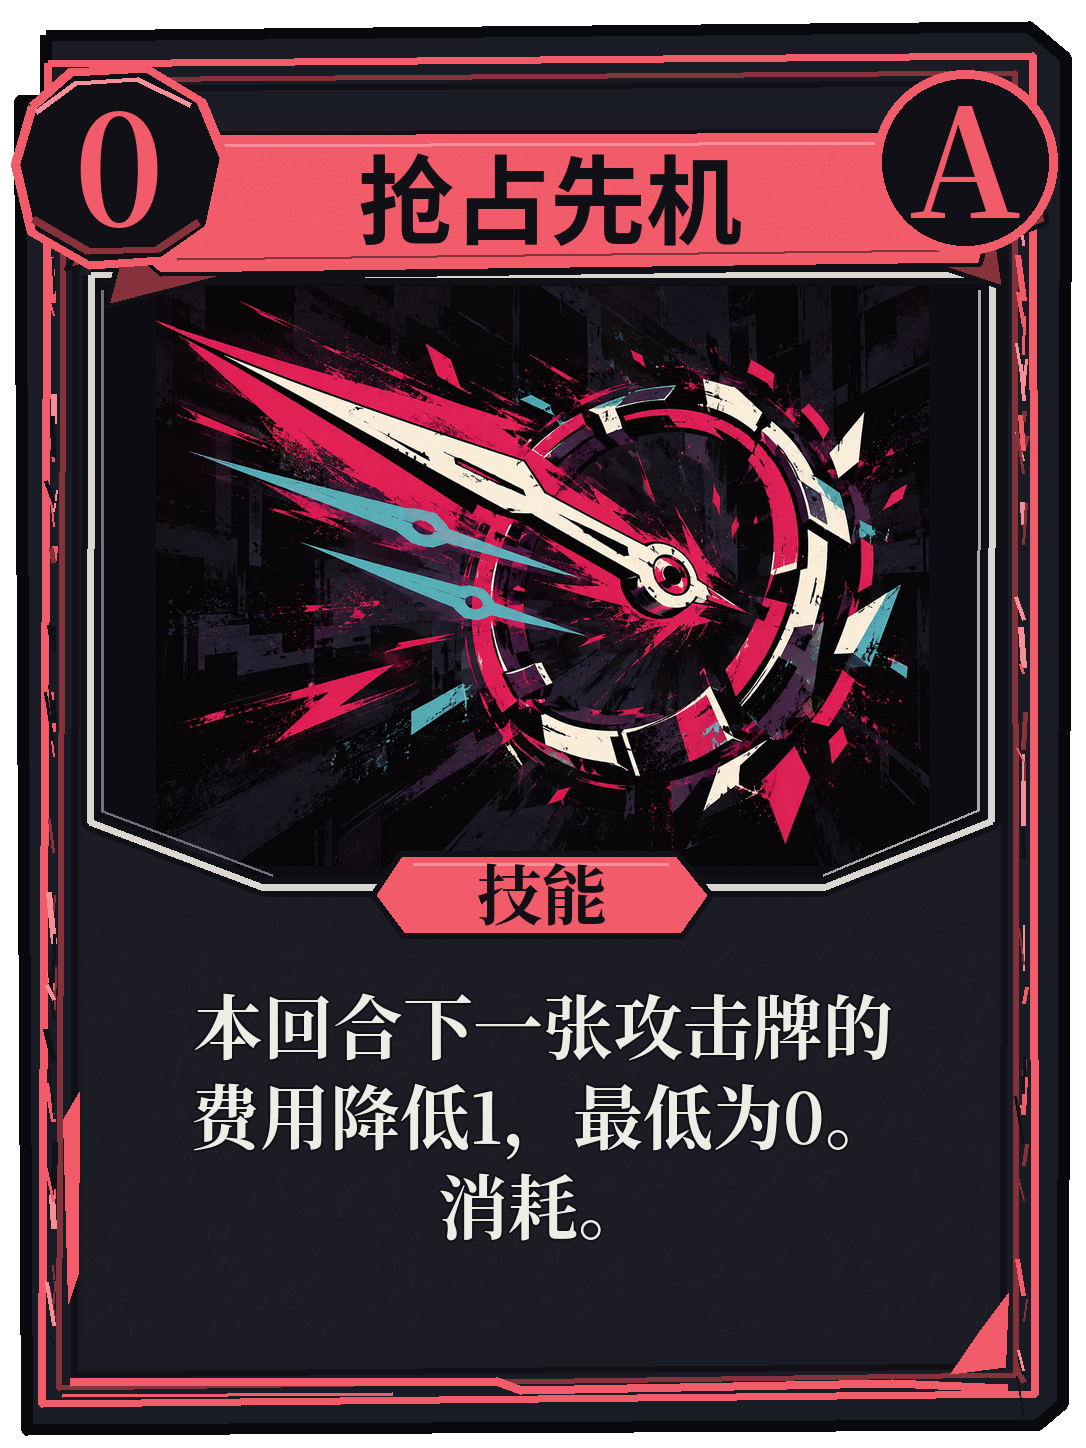
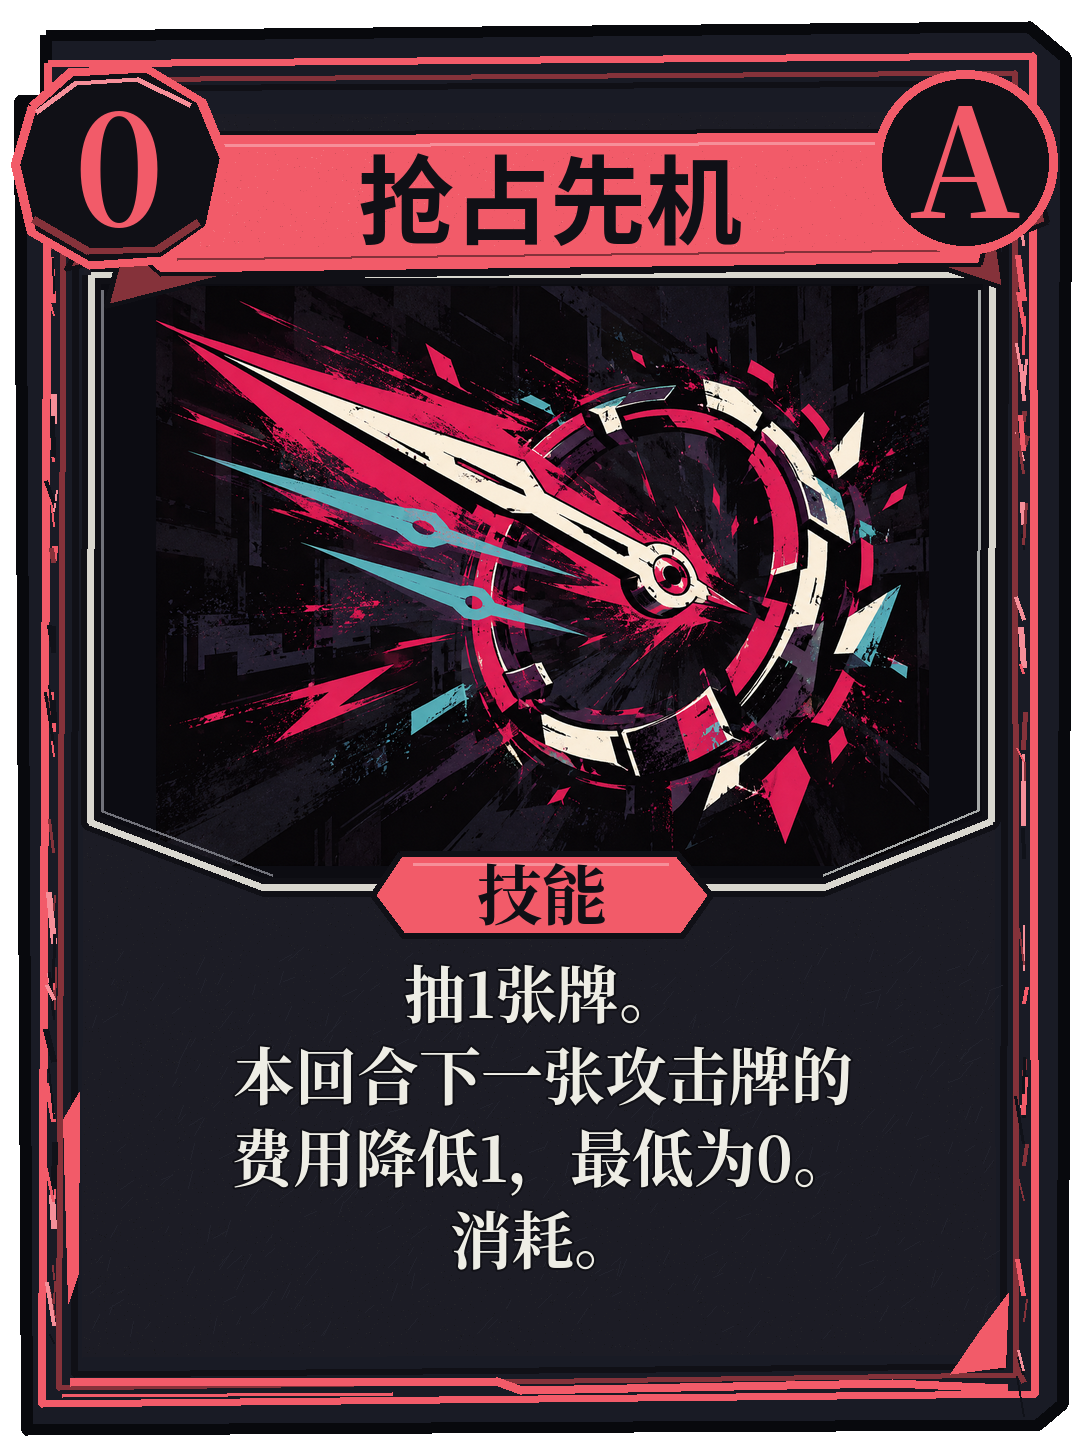
卡牌数值修改

Changed region(s): [[0.1823, 0.6526, 0.8204, 0.9012]]

diff --git a/tools/card_art/update_noren_rules.py b/tools/card_art/update_noren_rules.py
@@ -66,7 +66,13 @@ PREFERRED_LINES = {
         "造成8点伤害。",
         "远程技：若打出本牌前",
         "恰好拥有1颗弹药，",
-        "本牌基础伤害增加4。"
+        "本牌基础伤害增加6。"
+    ],
+    "noren_22": [
+        "抽1张牌。",
+        "本回合下一张攻击牌的",
+        "费用降低1，最低为0。",
+        "消耗。"
     ],
     "noren_25": [
         "造成14点伤害。",

diff --git a/docs/卡牌与效果实现维护指南.md b/docs/卡牌与效果实现维护指南.md
@@ -355,7 +355,7 @@ Buffs.clear(model, "weak", enemy_index)
 | `noren_15` | 膛压蓄积 | B／0 | `skill`／`self` | 爆发直伤流 | `next_damage(amount=5)` | 消耗区 |
 | `noren_18` | 重弹装填 | B／1 | `skill`／`self` | 爆发直伤流 | `ammo(amount=2)` → `next_damage(amount=4)` | 弃牌区 |
 | `noren_19` | 压制射击 | B／1 | `attack`／`enemy` | 爆发直伤流 | `damage(amount=8)` → `weak(amount=2)` | 弃牌区 |
-| `noren_21` | 末弹决断 | B／1 | `attack`／`enemy` | 爆发直伤流 | `damage(amount=8, lastAmmoBonus=4)` | 弃牌区 |
+| `noren_21` | 末弹决断 | B／1 | `attack`／`enemy` | 爆发直伤流 | `damage(amount=8, lastAmmoBonus=6)` | 弃牌区 |
 | `noren_25` | 处决射击 | B／2 | `attack`／`enemy` | 爆发直伤流 | `damage(amount=14, executeBonus=8)` | 弃牌区 |
 | `noren_27` | 剖切 | B／1 | `attack`／`enemy` | 裂伤流 | `damage(amount=6)` → `bleed(amount=2)` | 弃牌区 |
 | `noren_28` | 双刃连击 | B／1 | `attack`／`enemy` | 裂伤流 | `damage(amount=3, hits=2)` → `bleed(amount=2, when="melee")` | 弃牌区 |
@@ -372,7 +372,7 @@ Buffs.clear(model, "weak", enemy_index)
 | `noren_16` | 后跳斩 | A／1 | `attack`／`enemy` | 爆发直伤流 | `damage(amount=9)` → `draw(amount=2, when="melee")` | 弃牌区 |
 | `noren_17` | 枪口重击 | A／2 | `attack`／`enemy` | 爆发直伤流 | `damage(amount=16)` → `ammo(amount=2, when="melee")` | 弃牌区 |
 | `noren_20` | 火力倾泻 | A／2 | `attack`／`enemy` | 爆发直伤流 | `damage(amount=9, allAmmoHits=true)`；卡级 `consumeAllAmmo=true` | 弃牌区 |
-| `noren_22` | 抢占先机 | A／0 | `skill`／`self` | 爆发直伤流 | `next_discount(amount=1)` | 消耗区 |
+| `noren_22` | 抢占先机 | A／0 | `skill`／`self` | 爆发直伤流 | `draw(amount=1)` → `next_discount(amount=1)` | 消耗区 |
 | `noren_24` | 弱点锁定 | A／1 | `skill`／`self` | 爆发直伤流 | `draw(amount=2)` → `buff(id="next_hit_damage", amount=6)` | 弃牌区 |
 | `noren_29` | 撕裂斩 | A／2 | `attack`／`enemy` | 裂伤流 | `damage(amount=14)` → `bleed(amount=4)` | 弃牌区 |
 | `noren_30` | 加深伤口 | A／1 | `skill`／`enemy` | 裂伤流 | `bleed(amount=3, woundedMeleeAmount=6)` | 弃牌区 |
@@ -469,7 +469,7 @@ Buffs.clear(model, "weak", enemy_index)
 
 2026-10-17：`end_noren_turn()` 新增有序 `turnEvents`，包含 `status_tick`（污染伤害与减层）、`status_apply`（主动污染）、`attack`（含明确敌人数组index）。`attacks`保留兼容查询。每段攻击的 `pollutionAfter` 及状态事件的 `stacksAfter / hpAfter / blockAfter` 驱动显示快照，按实际先后展示；不能用模型整轮最终污染提前刷新中间命中。污染伤害只调用普通伤害入口，不调用攻击追加或弹反钩子；玩家或敌人污染致死也播放受击／退场。
 
-当前两只鱼定义 `deathPollution=3`，双杀合计6层：统一敌方伤害入口在存活转为死亡时施加污染，再由调用者判定胜负；无需保存额外触发标记，已死亡对象不会重复触发。返回命中的 `deathPollution` 与 `playerPollutionAfter` 描述本次死亡效果和当时玩家污染层数；裂伤并入攻击结果时保留这两项，弹反和敌人污染事件沿用。界面在对应致死命中／状态事件时展示，不提前读取最终模型层数。旧快照缺少该配置时仍默认为0；若显式保存 `deathPollution=5`则继续每只5层，不以新目录的3层覆盖。攻击接触污染仍为每实际扣血段2层，主动污染意图仍为3层。
+当前两只鱼定义 `deathPollution=3`，双杀合计6层：统一敌方伤害入口在存活转为死亡时施加污染，再由调用者判定胜负；无需保存额外触发标记，已死亡对象不会重复触发。返回命中的 `deathPollution` 与 `playerPollutionAfter` 描述本次死亡效果和当时玩家污染层数；裂伤并入攻击结果时保留这两项，弹反和敌人污染事件沿用。界面在对应致死命中／状态事件时展示，不提前读取最终模型层数。旧快照缺少该配置时仍默认为0；若显式保存 `deathPollution=5`则继续每只5层，不以新目录的3层覆盖。2026-11-17起，攻击每段实际扣血追加1层污染，主动污染意图施加2层。以上数值由当前敌人定义提供，更新前的战斗使用冻结配置。
 
 ### 当前效果数值预览（2026-10-19同步）
 

diff --git a/docs/游戏规则.md b/docs/游戏规则.md
@@ -1,5 +1,13 @@
 # 午夜委托 游戏规则
 
+## 末弹决断、抢占先机与变异鱼（2026-11-17）
+
+- **末弹决断（B／1费）** 造成8点基础伤害。在远程形态下，如果打出本牌前恰好只有1颗弹药，基础伤害增加6点。在没有其他修正时，末弹一击造成21点伤害，即（8＋6）×1.5。若出牌前有2颗弹药，则造成12点伤害。
+- **抢占先机（A／0费）** 先抽1张牌，本回合下一张攻击牌费用降低1，最低为0。抢占先机随后进入消耗区，刚抽到的攻击牌也可以使用这次减费。
+- **变异鱼** 的攻击每实际扣血一段追加1层污染。主动污染意图直接施加2层，每只鱼死亡时施加3层。两只鱼的错位行动顺序见[变异的鱼与污染](#变异的鱼与污染2026-10-17)。
+
+新开的战斗与演练使用本次定义，更新前已开打的战斗按该场冻结的牌和敌人数据结算。
+
 ## 破势枪托、血迹追踪与应急供能（2026-11-16）
 
 - **破势枪托（B／1费）** 对一名敌人造成6点基础伤害。近战形态的基础伤害为9点，攻击后对该目标施加2层虚弱。远程形态按通常的伤害倍率结算。
@@ -437,13 +445,13 @@ E04／B04接入黑帮老大与两名黑帮小弟：老大30 HP，每名小弟15 
 | 第一只 | 攻击6 | 攻击2×2 | 施加2层污染 |
 | 第二只 | 施加2层污染 | 攻击6 | 攻击2×2 |
 
-每段鱼攻击在扣除格挡后造成大于0的实际伤害，便向受击者追加2层污染；全挡或0伤害不追加，多段分别计算。主动污染意图直接加层，不消耗格挡。
+每段鱼攻击实际扣血时追加1层污染。两段攻击若都扣血，共追加2层；若仅一段扣血，则只追加1层。全挡时追加0层。主动污染意图直接施加2层，不消耗格挡。
 
 每只鱼死亡时向角色施加3层污染，仅在存活转为死亡时触发一次；攻击、裂伤、弹反或污染致死都生效，同时击杀两只合计6层。施加层数不消耗格挡、不立即造成伤害，仍受999层上限限制；后续污染结算可被格挡。最后一只鱼死亡也先施加，再判定胜利。已进行的旧战斗若显式保存 `deathPollution=5`，仍保留每只5层；没有该字段的更早快照默认为0，新开战斗读取每只3层。
 
 污染为负面效果，双方角色均可持有，最多999层。持有者自身回合结束时先受到等于当前层数的伤害（先扣格挡），然后减少1层，降至0消失。它不会在对方回合结束时结算，也不会触发鱼的攻击追加污染或弹反。玩家污染在敌人行动前结算，若致死立即战败；敌人污染在其行动后结算。
 
-主菜单“敌人测试”使用同样的双鱼30 HP配置。已有战斗快照继续保留原敌人数值和数量，新配置需新开B11战斗。
+主菜单“战斗演练”的双变异鱼使用同一套 B11 阵容和机制，新手教程只使用第一只鱼。更新前已开始的战斗沿用快照中记录的攻击污染层数。
 
 ## 治疗与日期
 

diff --git a/docs/诺伦卡牌与控制台.md b/docs/诺伦卡牌与控制台.md
@@ -22,7 +22,7 @@
 
 基础牌01—04（直击、护身、贴近、拉开距离）的完整定义保持不变；20张非基础牌提高数值，40号剖解经验改为近战攻击逐段施加裂伤。费用、品级、攻击段数和初始卡组不变，其他卡维持原值。新开正式战斗／演练使用新定义；进行中的旧战斗保留冻结卡表和旧能力行为，不覆盖正式存档。
 
-下表列出现行45张牌，已纳入2026-11-16的修订。各日期段记录当时的改动。数值仍为试玩配置，未宣称完成实战平衡。
+下表列出现行45张牌，已纳入2026-11-17的修订。各日期段记录当时的改动。数值仍为试玩配置，未宣称完成实战平衡。
 
 剖解经验：本场战斗中，近战形态每段攻击命中后，对命中的存活敌人施加1层裂伤；多段逐段、群攻逐目标生效，完全格挡也触发。远程攻击、弹反及技能直接施加裂伤不触发，同名能力不叠加，不受每回合首次限制。每段按“攻击本体→剖解经验施加1裂伤→该段显式裂伤触发”执行，因此近战伤口追猎可立即触发本段新增裂伤。
 
@@ -48,8 +48,8 @@
 | 18 | 重弹装填 | B／1 | 技能 | 获得 2 颗弹药。下一张攻击牌的每段基础伤害增加 4。可叠加，跨回合保留。 |
 | 19 | 压制射击 | B／1 | 攻击 | 造成 8 点伤害，施加 2 层虚弱。 |
 | 20 | 火力倾泻 | A／2 | 攻击 | 造成 9 点伤害。远程技：消耗全部弹药，每消耗 1 颗弹药，额外攻击 1 次；总段数为 1 加打出前的弹药数。 |
-| 21 | 末弹决断 | B／1 | 攻击 | 造成 8 点伤害。远程技：若打出本牌前恰好拥有 1 颗弹药，本牌基础伤害增加 4。 |
-| 22 | 抢占先机 | A／0 | 技能 | 本回合下一张攻击牌的费用降低 1，最低为 0。消耗。 |
+| 21 | 末弹决断 | B／1 | 攻击 | 造成8点基础伤害。远程技：若打出本牌前恰好拥有1颗弹药，本牌基础伤害增加6。 |
+| 22 | 抢占先机 | A／0 | 技能 | 抽1张牌。本回合下一张攻击牌的费用降低1，最低为0。消耗。 |
 | 23 | 弱点瞄准 | S／1 | 能力 | 本场战斗中，远程形态的攻击本体伤害倍率由 1.5 倍变为 2 倍。 |
 | 24 | 弱点锁定 | A／1 | 技能 | 抽 2 张牌。下一张攻击牌的每段基础伤害增加 6。可叠加，跨回合保留。 |
 | 25 | 处决射击 | B／2 | 攻击 | 造成 14 点伤害。远程技：若目标在本牌使用前的生命值不高于其最大生命值的 50%，本牌基础伤害增加 8。 |

diff --git a/docs/修改记录.md b/docs/修改记录.md
@@ -1,6 +1,14 @@
 # 午夜委托项目修改记录
 
 
+## 2026-11-17 末弹决断、抢占先机与双鱼攻击污染
+
+末弹决断保留8点基础伤害，远程出牌前恰有1颗弹药时的基础加成由4提高到6。抢占先机先抽1张牌，再给本回合下一张攻击牌减1费，费用下限为0，使用后进入消耗区。两张 v3 卡面按现行文案重排规则区并重新绑定完整定义。
+
+黑潮泵站 `B11` 的 `fish` 和 `fish_second` 每段攻击实际扣血时追加的污染由2层调整为1层。主动污染意图为2层，每只鱼死亡施加3层。正式战斗、双鱼演练与使用第一只鱼的新手教程均读取对应敌人定义。旧战斗恢复时使用冻结敌人和卡表，保留该场原值。[游戏规则](游戏规则.md#末弹决断抢占先机与变异鱼2026-11-17)
+
+已同步至本地 game-demo。使用目标工程的隔离副本，Godot 4.7.2 的九套回归共 4694 项通过，覆盖出牌、预览、教程、鱼群实际污染与第二周敌人意图。图形专项逐段核对前四轮并生成截图。首次图形测试在截图等待处超时，首次吐水测试退出时仍有资源占用，分别修正测试截图与音频释放后重跑通过。[验证记录](../artifacts/qa/card-balance-2026-11-17/verification.json) · [卡面校验](../artifacts/qa/card-balance-2026-11-17/card-rules-manifest.json)
+
 ## 2026-11-16 三张诺伦卡牌调整
 
 桌面工程更新14号破势枪托、39号血迹追踪和44号应急供能。破势枪托的基础伤害为6，近战时改为9，随后施加2层虚弱。血迹追踪的基础抽牌由3张改为2张，目标已有至少3层裂伤时额外抽牌由1张改为2张。应急供能仍为0费并立即获得2点能量，使用后进入消耗区。更新前已开始的战斗保留该场冻结定义，旧版应急供能仍可从弃牌堆洗回。

diff --git a/docs/README.md b/docs/README.md
@@ -1,5 +1,7 @@
 # 午夜委托文档索引
 
+2026-11-17桌面工程调整末弹决断、抢占先机及双变异鱼的攻击污染。新开战斗使用现行定义，进行中的战斗保留冻结值。[玩家规则](游戏规则.md#末弹决断抢占先机与变异鱼2026-11-17) · [修改记录](修改记录.md#2026-11-17-末弹决断抢占先机与双鱼攻击污染)
+
 2026-11-16桌面工程调整破势枪托、血迹追踪和应急供能。新战斗使用新版，进行中的战斗继续使用该场冻结的卡表。玩家规则见[三张牌的现行效果](游戏规则.md#破势枪托血迹追踪与应急供能2026-11-16)，文件与卡面变更见[修改记录](修改记录.md#2026-11-16-三张诺伦卡牌调整)。
 
 2026-11-10已将六项新科技及专属图标、战斗规则、商场／档案分页、测试和说明同步到本地game-demo；43个改动文件中42个与桌面源逐字节一致，修改记录保留各自历史。目标隔离导入及10套无窗口1805项通过，配置检查无错误，正式用户目录10文件集合与哈希未变。未提交／推送、未更新发行包，未重跑目标GPU；见[同步记录](修改记录.md#2026-11-10-六项科技同步至本地game-demo)与[验证明细](../artifacts/qa/technology-sync-2026-11-10/verification.json)。

diff --git a/docs/维护文档.md b/docs/维护文档.md
@@ -60,6 +60,8 @@ B17—B22正式阵容及生命以`data/enemies/enemies.json`和`data/battles.jso
 
 ## 变异鱼主动污染（2026-11-01）
 
+2026-11-17更新了两只鱼的 `attackPollution`。新战斗中每段造成实际生命损失的攻击追加1层，主动意图为2层，每只死亡施加3层。已进行的战斗仍使用冻结值。以下记录对应11月1日的配置。
+
 两只变异鱼的`intentSequence`中`type=pollution`的amount均为2，界面意图与实际结算共用该定义。攻击接触仍为2层，死亡仍为3层；正式战斗、演练及教程的新战斗读取新值，进行中的冻结快照保留原意图，不迁移正式存档。
 
 
